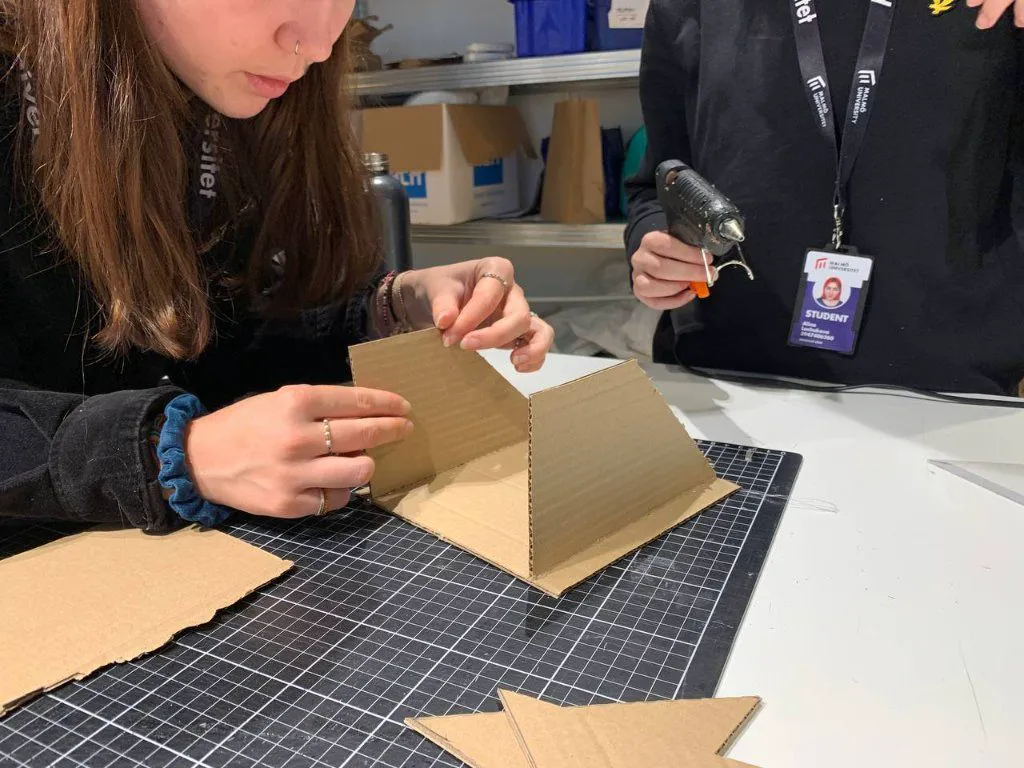
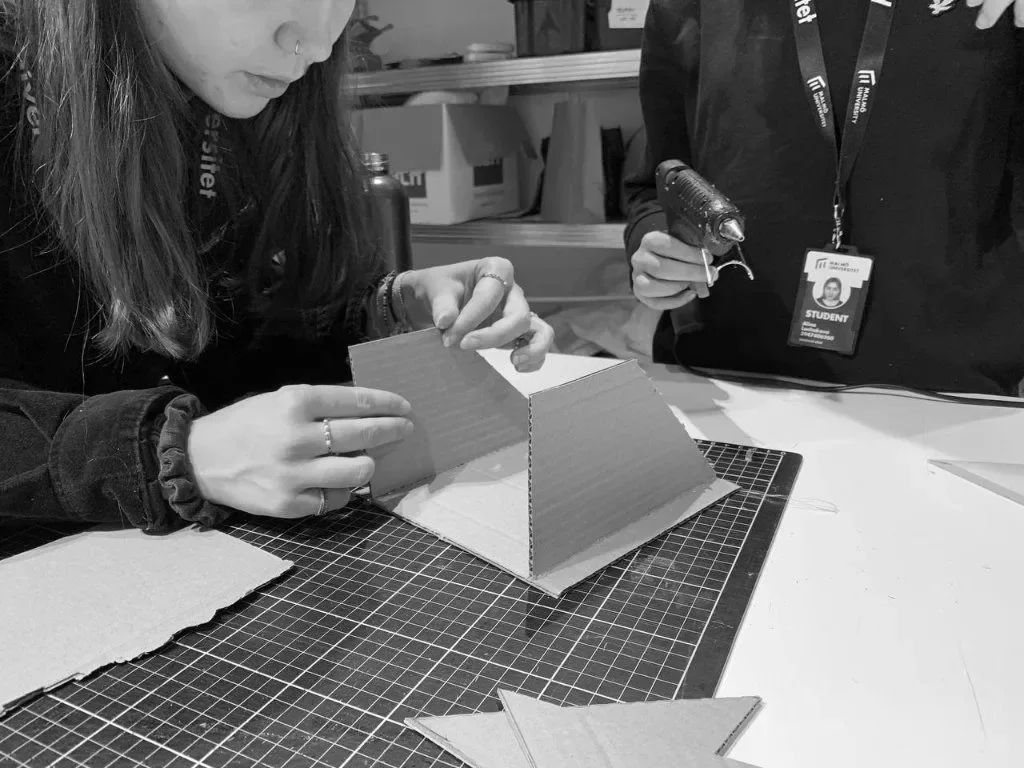
Add files via upload

diff --git a/branding/stoked.html b/branding/stoked.html
@@ -9,7 +9,7 @@
 <link rel="preconnect" href="https://fonts.googleapis.com">
 <link rel="preconnect" href="https://fonts.gstatic.com" crossorigin>
 <link href="https://fonts.googleapis.com/css2?family=Geist:wght@300;400;500;600;700&family=Inter:wght@400;500&family=Space+Grotesk:wght@500;700&display=swap" rel="stylesheet">
-<link rel="stylesheet" href="../assets/css/style.css?v=14">
+<link rel="stylesheet" href="../assets/css/style.css?v=15">
 
 <meta property="og:type" content="website">
 <meta property="og:title" content="STOKED — DignaStudio">
@@ -69,12 +69,12 @@
 <img src="../assets/images/gib0m6o1Yz1JY3YfqkyOoA49Ww.webp" alt="" loading="lazy">
 <img src="../assets/images/tqWN6UtBXxFrWByG0xlKfZPqIOs.webp" alt="" loading="lazy">
 <img src="../assets/images/AZTdYcneykp0iMo3lzqLTx3O1Zs.jpg" alt="" loading="lazy">
-<img src="../assets/images/KTB8Ui5nXNZNYk0vanQVl2KA5M.webp" alt="" loading="lazy"><img src="../assets/images/H0rsRlMaumQzj6fYdyAMSHDSQ0.jpg" alt="" loading="lazy">
-<img src="../assets/images/q8Ipog6dF3GCtS4j1Bi8TFo1qw.jpg" alt="" loading="lazy">
-<img src="../assets/images/gib0m6o1Yz1JY3YfqkyOoA49Ww.webp" alt="" loading="lazy">
-<img src="../assets/images/tqWN6UtBXxFrWByG0xlKfZPqIOs.webp" alt="" loading="lazy">
-<img src="../assets/images/AZTdYcneykp0iMo3lzqLTx3O1Zs.jpg" alt="" loading="lazy">
-<img src="../assets/images/KTB8Ui5nXNZNYk0vanQVl2KA5M.webp" alt="" loading="lazy"></div></div></div></section><section class="section section-dark"><div class="container">
+<img src="../assets/images/KTB8Ui5nXNZNYk0vanQVl2KA5M.webp" alt="" loading="lazy"><img class="hide-dup" src="../assets/images/H0rsRlMaumQzj6fYdyAMSHDSQ0.jpg" alt="" loading="lazy">
+<img class="hide-dup" src="../assets/images/q8Ipog6dF3GCtS4j1Bi8TFo1qw.jpg" alt="" loading="lazy">
+<img class="hide-dup" src="../assets/images/gib0m6o1Yz1JY3YfqkyOoA49Ww.webp" alt="" loading="lazy">
+<img class="hide-dup" src="../assets/images/tqWN6UtBXxFrWByG0xlKfZPqIOs.webp" alt="" loading="lazy">
+<img class="hide-dup" src="../assets/images/AZTdYcneykp0iMo3lzqLTx3O1Zs.jpg" alt="" loading="lazy">
+<img class="hide-dup" src="../assets/images/KTB8Ui5nXNZNYk0vanQVl2KA5M.webp" alt="" loading="lazy"></div></div></div></section><section class="section section-dark"><div class="container">
 <div class="st-blue"><div class="container"><h2 class="reveal">The Rebranding</h2></div></div>
 </div></section><section class="section section-dark"><div class="container">
 <section class="st-sect reveal">
@@ -99,3 +99,41 @@
 <div class="project-card reveal" style="aspect-ratio:9/14;"><img src="../assets/images/3KCjlTACNqtBYrHknCRhunEo.webp" alt="" loading="lazy"></div>
 <div class="project-card reveal" style="aspect-ratio:9/14;"><img src="../assets/images/we9mwPZni4Y3tUbBp9adUr3F4c.png" alt="" loading="lazy"></div>
 <div class="project-card reveal" style="aspect-ratio:9/14;"><img src="../assets/images/TzhUvXVJno6iNWCQUijrEW5xjE.png" alt="" loading="lazy"></div></div></div></div></section>
+</main>
+<footer class="site-footer">
+  <div class="footer-inner">
+    <div class="container">
+      <div class="footer-top">
+        <div class="ft-left"><span class="ft-a">See projects</span><span class="ft-b">Portfolio</span></div>
+        <div class="fn-left">
+          <a href="../index.html">Home</a>
+          <a href="../work.html">Our Work</a>
+          <a href="../contact.html">Contact</a>
+        </div>
+        <div class="fn-right">
+          <div class="social-h">Social</div>
+          <div class="social-links">
+            <a target="_blank" rel="noopener" href="https://www.linkedin.com/in/digna-lambrichts">LN</a>
+            <a target="_blank" rel="noopener" href="https://www.instagram.com/diignaa/">IG</a>
+          </div>
+        </div>
+      </div>
+      <div class="footer-cta">
+        <span class="corner tl"></span><span class="corner tr"></span>
+        <span class="corner bl"></span><span class="corner br"></span>
+        <a class="footer-swap" href="mailto:digna.lambrichtsx@gmail.com" aria-label="Email Digna">
+          <span class="fs-line fs-a">Let us help you take your social media to the next level</span>
+          <span class="fs-line fs-b" aria-hidden="true">digna.lambrichtsx@gmail.com</span>
+        </a>
+      </div>
+      <div class="footer-bar">
+        <span>© 2026 DignaStudio. All rights reserved.</span>
+        <span>DignaStudio</span>
+        <span>Europe based.</span>
+      </div>
+    </div>
+  </div>
+</footer>
+<script src="../assets/js/main.js?v=13"></script>
+</body>
+</html>

diff --git a/projects/malmo.html b/projects/malmo.html
@@ -9,7 +9,7 @@
 <link rel="preconnect" href="https://fonts.googleapis.com">
 <link rel="preconnect" href="https://fonts.gstatic.com" crossorigin>
 <link href="https://fonts.googleapis.com/css2?family=Geist:wght@300;400;500;600;700&family=Inter:wght@400;500&family=Space+Grotesk:wght@500;700&display=swap" rel="stylesheet">
-<link rel="stylesheet" href="../assets/css/style.css?v=14">
+<link rel="stylesheet" href="../assets/css/style.css?v=15">
 
 <meta property="og:type" content="website">
 <meta property="og:title" content="Interaction Design, Malmö — DignaStudio">
@@ -126,7 +126,7 @@
 <section class="section section-light"><div class="container">
 <div class="mal-grid">
 <div class="reveal"><img src="../assets/images/malmo-cardboard-prototype.webp" alt="Building the cardboard hologram prototype" loading="lazy"><p class="cap">Building the nightstand hologram</p></div>
-<div class="reveal"><img src="../assets/images/malmo-hologram.jpg" alt="First hologram prototype with phone" loading="lazy"><p class="cap">First hologram prototype</p></div>
+<div class="reveal"><img src="../assets/images/malmo-hologram.webp" alt="First hologram prototype with phone" loading="lazy"><p class="cap">First hologram prototype</p></div>
 </div>
 <div class="rounded-img reveal" style="margin-top:clamp(40px,6vw,80px);"><img src="../assets/images/malmo-storyboard.webp" alt="Storyboard of the family of devices" loading="lazy"></div>
 <p class="lead reveal" style="color:#555;margin-top:40px;max-width:60ch;">This project represents a promising initial step towards a comprehensive system to assist university students in maintaining healthy sleep habits.</p>
@@ -134,6 +134,7 @@
 
 <section class="section section-dark"><div class="container">
 <div class="sec-head reveal"><p class="sec-num blue">04</p><h2 class="ld-h" style="font-size:clamp(48px,6.5vw,83px);color:#fff;">Malmö Memories</h2></div>
+<p class="lead reveal" style="color:rgba(255,255,255,.75);max-width:52ch;margin:34px auto 0;">Half a year in Sweden gave me more than two courses: friendships I still talk to almost daily, endless fika moments (coffee, cookies, repeat), and weekend trips whenever the budget allowed. Living abroad on my own pushed me to grow, personally and professionally, and I came back more confident in my own choices as a designer.</p>
 <div class="mal-grid" style="margin-top:44px;">
 <div class="reveal"><img src="../assets/images/malmo-memory-sunset.webp" alt="Sunset with friends in Sweden" loading="lazy"></div>
 <div class="reveal"><img src="../assets/images/malmo-cardboard-prototype.webp" alt="Prototyping in the workshop" loading="lazy"></div>

diff --git a/assets/css/style.css b/assets/css/style.css
@@ -119,6 +119,9 @@ body.menu-open .site-menu.closing { opacity: 0; visibility: visible; pointer-eve
 .menu-social-links { display: flex; gap: 20px; font-size: 16px; font-weight: 500; }
 .menu-social-links a:hover { opacity: .6; }
 @media (max-width: 700px) {
+  .site-footer { position: static; }
+  .footer-inner { min-height: auto; padding-top: 56px; }
+ {
   .menu-list li { height: 70px; } .menu-link, .menu-link .roll, .menu-link .roll > span { height: 62px; line-height: 62px; }
   .menu-count { top: 6px; right: -22px; }
 }
@@ -646,9 +649,9 @@ a.pill-dark:hover { background: #000; }
 /* ================= V10 additions ================= */
 /* numbered section heads (Perandory numerals like the original) */
 .sec-head { display: flex; align-items: flex-start; gap: clamp(20px, 3vw, 42px); }
-.sec-num { font-family: var(--condensed); font-size: clamp(56px, 8vw, 110px); line-height: .8; letter-spacing: 0; margin: 0; }
+.sec-num { font-family: var(--condensed); font-size: clamp(56px, 8vw, 110px); line-height: 1; letter-spacing: 0; margin: 0; }
 .sec-num.blue { color: #6FE4FF; } .sec-num.red { color: #C0322D; } .sec-num.pink { color: #B75D69; }
-.sec-head .mid-title, .sec-head .big-title { margin: 0; padding-top: clamp(8px, 2vw, 22px); }
+.sec-head .mid-title, .sec-head .big-title { margin: 0; padding-top: 0; }
 
 /* --- Sydney --- */
 .sy-subcats { display: grid; grid-template-columns: repeat(2, minmax(0, 271px)); gap: 44px 20px; margin-top: 40px; }
@@ -714,3 +717,20 @@ a.pill-dark:hover { background: #000; }
 .mal-grid img { width: 100%; height: auto; display: block; }
 .mal-grid .cap { font-size: 14px; color: #555; margin-top: 12px; text-transform: uppercase; letter-spacing: .02em; }
 @media (max-width: 700px) { .mal-grid { grid-template-columns: 1fr; } }
+
+/* --- v18: sins grid, card rows, marquee on mobile --- */
+.sin-grid {
+  background: #1b1b1c; border-radius: 20px;
+  padding: clamp(32px, 6vw, 56px);
+  display: grid; grid-template-columns: 1fr 1fr;
+  gap: 26px clamp(28px, 6vw, 80px);
+  margin-top: 44px;
+}
+.sin-grid span { color: #fff; font-size: clamp(18px, 4.8vw, 22px); }
+@media (max-width: 700px) {
+  .ld-row3 { grid-template-columns: 1fr !important; gap: 24px !important; }
+  .marquee { overflow-x: auto; -webkit-overflow-scrolling: touch; scroll-snap-type: x mandatory; padding: 26px 20px 30px; margin-left: -20px; margin-right: -20px; }
+  .marquee-track { animation: none; gap: 16px; }
+  .marquee-track img { height: 300px; scroll-snap-align: center; }
+  .marquee-track img.hide-dup { display: none; }
+}

diff --git a/projects/greenscene.html b/projects/greenscene.html
@@ -9,7 +9,7 @@
 <link rel="preconnect" href="https://fonts.googleapis.com">
 <link rel="preconnect" href="https://fonts.gstatic.com" crossorigin>
 <link href="https://fonts.googleapis.com/css2?family=Geist:wght@300;400;500;600;700&family=Inter:wght@400;500&family=Space+Grotesk:wght@500;700&display=swap" rel="stylesheet">
-<link rel="stylesheet" href="../assets/css/style.css?v=14">
+<link rel="stylesheet" href="../assets/css/style.css?v=15">
 
 <meta property="og:type" content="website">
 <meta property="og:title" content="The Green Scene — DignaStudio">
@@ -46,7 +46,7 @@
 </nav>
 
 <section class="detail-hero">
-<div class="hero-media"><video autoplay muted loop playsinline preload="metadata" poster="../assets/images/greenscene-hero-poster.jpg"><source src="../assets/images/greenscene-hero.mp4" type="video/mp4"></video></div>
+<div class="hero-media"><img src="../assets/images/aCzWiACHY380R95HAN3rlpwrx8Q.webp" alt=""></div>
 <div class="container">
 <span class="eyebrow">thesis project &middot; maastricht</span>
 <h1 class="detail-title">The Green Scene</h1>
@@ -80,7 +80,7 @@
 <section class="section section-dark"><div class="container">
 <div class="sec-head reveal"><p class="sec-num blue">02</p><h2 class="pv-mixed" style="padding-top:16px;"><span class="w1">where research</span><span class="w2" style="font-size:clamp(30px,4.3vw,56px);">MEETS INTERACTION</span></h2></div>
 <p class="lead reveal" style="color:rgba(255,255,255,.75);margin-top:30px;max-width:52ch;">Every design decision was grounded in research. We explored the questions, expectations, and uncertainties people have about greening their streets, and translated them into an interactive experience.</p>
-<div class="rounded-img reveal" style="margin-top:44px;"><img src="../assets/images/aCzWiACHY380R95HAN3rlpwrx8Q.webp" alt="" loading="lazy"></div>
+<div class="rounded-img reveal" style="margin-top:44px;overflow:hidden;"><video autoplay muted loop playsinline preload="metadata" poster="../assets/images/greenscene-hero-poster.jpg" style="width:100%;height:100%;object-fit:cover;display:block;"><source src="../assets/images/greenscene-hero.mp4" type="video/mp4"></video></div>
 </div></section>
 <section class="section section-light"><div class="container">
 <div class="sec-head reveal"><p class="sec-num blue">03</p><h2 class="mid-title" style="text-transform:uppercase;color:var(--ink);">From Concept<br>to Code</h2></div>

diff --git a/projects/lets-dance.html b/projects/lets-dance.html
@@ -9,7 +9,7 @@
 <link rel="preconnect" href="https://fonts.googleapis.com">
 <link rel="preconnect" href="https://fonts.gstatic.com" crossorigin>
 <link href="https://fonts.googleapis.com/css2?family=Geist:wght@300;400;500;600;700&family=Inter:wght@400;500&family=Space+Grotesk:wght@500;700&display=swap" rel="stylesheet">
-<link rel="stylesheet" href="../assets/css/style.css?v=14">
+<link rel="stylesheet" href="../assets/css/style.css?v=15">
 
 <meta property="og:type" content="website">
 <meta property="og:title" content="Let's Dance! — DignaStudio">
@@ -58,7 +58,7 @@
 <p class="lead reveal" style="margin-top:28px;max-width:46ch;">As Head of PR, I combined creative direction and organising with hands-on community work: designing posters and social content, filming choreography and workshops, and keeping the association's voice consistent across everything.</p>
 </div></section>
 <section class="section section-dark"><div class="container">
-<div style="display:grid;grid-template-columns:repeat(3,1fr);gap:12px;">
+<div class="ld-row3" style="display:grid;grid-template-columns:repeat(3,1fr);gap:12px;">
 <div class="reveal"><img src="../assets/images/UTAJWP1SCw0ikLJXfgqYUGWLWk.webp" alt="" style="width:100%;aspect-ratio:4/4.4;object-fit:cover;display:block;" loading="lazy"><p class="ld-cap">Event<br>photography</p></div>
 <div class="reveal"><img src="../assets/images/Wc3NhZ8TgS4Q1Kn2C6NcpNsS6g.webp" alt="" style="width:100%;aspect-ratio:4/4.4;object-fit:cover;display:block;" loading="lazy"><p class="ld-cap">Social<br>content</p></div>
 <div class="reveal"><img src="../assets/images/Uo3UHnzj3xHJmX5jPRHrOCMMBmM.webp" alt="" style="width:100%;aspect-ratio:4/4.4;object-fit:cover;display:block;" loading="lazy"><p class="ld-cap">Workshops<br>in motion</p></div>

diff --git a/projects/bonnefanten.html b/projects/bonnefanten.html
@@ -9,7 +9,7 @@
 <link rel="preconnect" href="https://fonts.googleapis.com">
 <link rel="preconnect" href="https://fonts.gstatic.com" crossorigin>
 <link href="https://fonts.googleapis.com/css2?family=Geist:wght@300;400;500;600;700&family=Inter:wght@400;500&family=Space+Grotesk:wght@500;700&display=swap" rel="stylesheet">
-<link rel="stylesheet" href="../assets/css/style.css?v=14">
+<link rel="stylesheet" href="../assets/css/style.css?v=15">
 
 <meta property="og:type" content="website">
 <meta property="og:title" content="Bonnefanten — DignaStudio">
@@ -69,11 +69,11 @@
 <p class="lead reveal" style="color:#555;margin-top:26px;max-width:40ch;">This exhibition is about the seven deadly sins by Pieter Bruegel. This 16th-century portrayal prompts reflection on human nature that is still recognizable today.</p>
 <div class="rounded-img reveal" style="margin-top:40px;"><img src="../assets/images/vdH7ifIK4BdsuvXhkHmSOkfApQA.webp" alt="" loading="lazy"></div>
 </div>
-<div class="reveal" style="background:#1b1b1c;padding:clamp(28px,3.5vw,48px);display:grid;grid-template-columns:1fr 1fr;gap:38px 24px;align-content:center;min-height:340px;">
-<span style="color:#fff;font-size:20px;">Pride</span><span style="color:#fff;font-size:20px;">Envy</span>
-<span style="color:#fff;font-size:20px;">Greed</span><span style="color:#fff;font-size:20px;">Lust</span>
-<span style="color:#fff;font-size:20px;">Wrath</span><span style="color:#fff;font-size:20px;">Gluttony</span>
-<span style="color:#fff;font-size:20px;">Sloth</span>
+<div class="reveal sin-grid">
+<span>Pride</span><span>Envy</span>
+<span>Greed</span><span>Lust</span>
+<span>Wrath</span><span>Gluttony</span>
+<span>Sloth</span>
 </div>
 </div>
 <div style="margin-top:clamp(60px,8vw,110px);">

diff --git a/projects/steam.html b/projects/steam.html
@@ -9,7 +9,7 @@
 <link rel="preconnect" href="https://fonts.googleapis.com">
 <link rel="preconnect" href="https://fonts.gstatic.com" crossorigin>
 <link href="https://fonts.googleapis.com/css2?family=Geist:wght@300;400;500;600;700&family=Inter:wght@400;500&family=Space+Grotesk:wght@500;700&display=swap" rel="stylesheet">
-<link rel="stylesheet" href="../assets/css/style.css?v=14">
+<link rel="stylesheet" href="../assets/css/style.css?v=15">
 
 <meta property="og:type" content="website">
 <meta property="og:title" content="STEAM — DignaStudio">
@@ -45,12 +45,11 @@
   </div>
 </nav>
 
-<section class="detail-hero" style="background:#f2f2f2;">
-<div class="hero-media"><img src="../assets/images/vsMdtB5caVU9PQhzElWfF4AADM.jpg" alt=""></div>
+<section class="detail-hero" style="background:#1b1b1c;">
 <div class="container">
-<span class="eyebrow" style="color:var(--ink);">steam education</span>
-<h1 class="detail-title" style="color:var(--ink);">Educating with Virtual Reality</h1>
-<p class="lead detail-desc" style="color:#555;">Our goal: how can we implement STEAM education in a small-scale, valuable and practical way in primary schools?</p>
+<span class="eyebrow">steam education</span>
+<h1 class="detail-title">Educating with Virtual Reality</h1>
+<p class="lead detail-desc">Our goal: how can we implement STEAM education in a small-scale, valuable and practical way in primary schools?</p>
 </div>
 </section>
 <section class="section section-dark"><div class="container">

diff --git a/branding/rederij-stiphout.html b/branding/rederij-stiphout.html
@@ -9,7 +9,7 @@
 <link rel="preconnect" href="https://fonts.googleapis.com">
 <link rel="preconnect" href="https://fonts.gstatic.com" crossorigin>
 <link href="https://fonts.googleapis.com/css2?family=Geist:wght@300;400;500;600;700&family=Inter:wght@400;500&family=Space+Grotesk:wght@500;700&display=swap" rel="stylesheet">
-<link rel="stylesheet" href="../assets/css/style.css?v=14">
+<link rel="stylesheet" href="../assets/css/style.css?v=15">
 
 <meta property="og:type" content="website">
 <meta property="og:title" content="stiphout — DignaStudio">
@@ -59,7 +59,7 @@
     <h2 class="big-title reveal" style="font-size:clamp(30px,4.4vw,44px);">Transforming Rederij Stiphout</h2>
     <p class="lead reveal" style="margin-top:22px;">My colleague and I developed a unique and bold concept in which we figuratively and literally "mark" Stiphout. Through thorough research of both the current and target audience, we established design requirements to ensure the new identity carries the atmosphere of the water.</p>
   </div>
-  <div class="full-imgs reveal"><img src="../assets/images/ImvMbO1ktqs1UsAOl1SXUNLRCIo.png" alt="" loading="lazy"></div>
+  <div class="natural-imgs reveal"><img src="../assets/images/ImvMbO1ktqs1UsAOl1SXUNLRCIo.png" alt="" loading="lazy"></div>
 </div></div></section><section class="section section-light"><div class="container">
 <div class="full-imgs">
   <img class="reveal" src="../assets/images/PB1xqIUOrTAtAKm4XHxw7dKGIg.webp" alt="" loading="lazy">

diff --git a/projects/sydney-heel-pain-clinic.html b/projects/sydney-heel-pain-clinic.html
@@ -9,7 +9,7 @@
 <link rel="preconnect" href="https://fonts.googleapis.com">
 <link rel="preconnect" href="https://fonts.gstatic.com" crossorigin>
 <link href="https://fonts.googleapis.com/css2?family=Geist:wght@300;400;500;600;700&family=Inter:wght@400;500&family=Space+Grotesk:wght@500;700&display=swap" rel="stylesheet">
-<link rel="stylesheet" href="../assets/css/style.css?v=14">
+<link rel="stylesheet" href="../assets/css/style.css?v=15">
 
 <meta property="og:type" content="website">
 <meta property="og:title" content="Sydney Heel Pain Clinic — DignaStudio">

diff --git a/branding/alchemy-all-metal.html b/branding/alchemy-all-metal.html
@@ -9,7 +9,7 @@
 <link rel="preconnect" href="https://fonts.googleapis.com">
 <link rel="preconnect" href="https://fonts.gstatic.com" crossorigin>
 <link href="https://fonts.googleapis.com/css2?family=Geist:wght@300;400;500;600;700&family=Inter:wght@400;500&family=Space+Grotesk:wght@500;700&display=swap" rel="stylesheet">
-<link rel="stylesheet" href="../assets/css/style.css?v=14">
+<link rel="stylesheet" href="../assets/css/style.css?v=15">
 
 <meta property="og:type" content="website">
 <meta property="og:title" content="Alchemy All Metal — DignaStudio">

diff --git a/index.html b/index.html
@@ -9,7 +9,7 @@
 <link rel="preconnect" href="https://fonts.googleapis.com">
 <link rel="preconnect" href="https://fonts.gstatic.com" crossorigin>
 <link href="https://fonts.googleapis.com/css2?family=Geist:wght@300;400;500;600;700&family=Inter:wght@400;500&family=Space+Grotesk:wght@500;700&display=swap" rel="stylesheet">
-<link rel="stylesheet" href="assets/css/style.css?v=14">
+<link rel="stylesheet" href="assets/css/style.css?v=15">
 
 <meta property="og:type" content="website">
 <meta property="og:title" content="Digna Studio - Designer | Creator | UGC">

diff --git a/about.html b/about.html
@@ -9,7 +9,7 @@
 <link rel="preconnect" href="https://fonts.googleapis.com">
 <link rel="preconnect" href="https://fonts.gstatic.com" crossorigin>
 <link href="https://fonts.googleapis.com/css2?family=Geist:wght@300;400;500;600;700&family=Inter:wght@400;500&family=Space+Grotesk:wght@500;700&display=swap" rel="stylesheet">
-<link rel="stylesheet" href="assets/css/style.css?v=14">
+<link rel="stylesheet" href="assets/css/style.css?v=15">
 
 <meta property="og:type" content="website">
 <meta property="og:title" content="About Digna - Designer | Creator | UGC">
